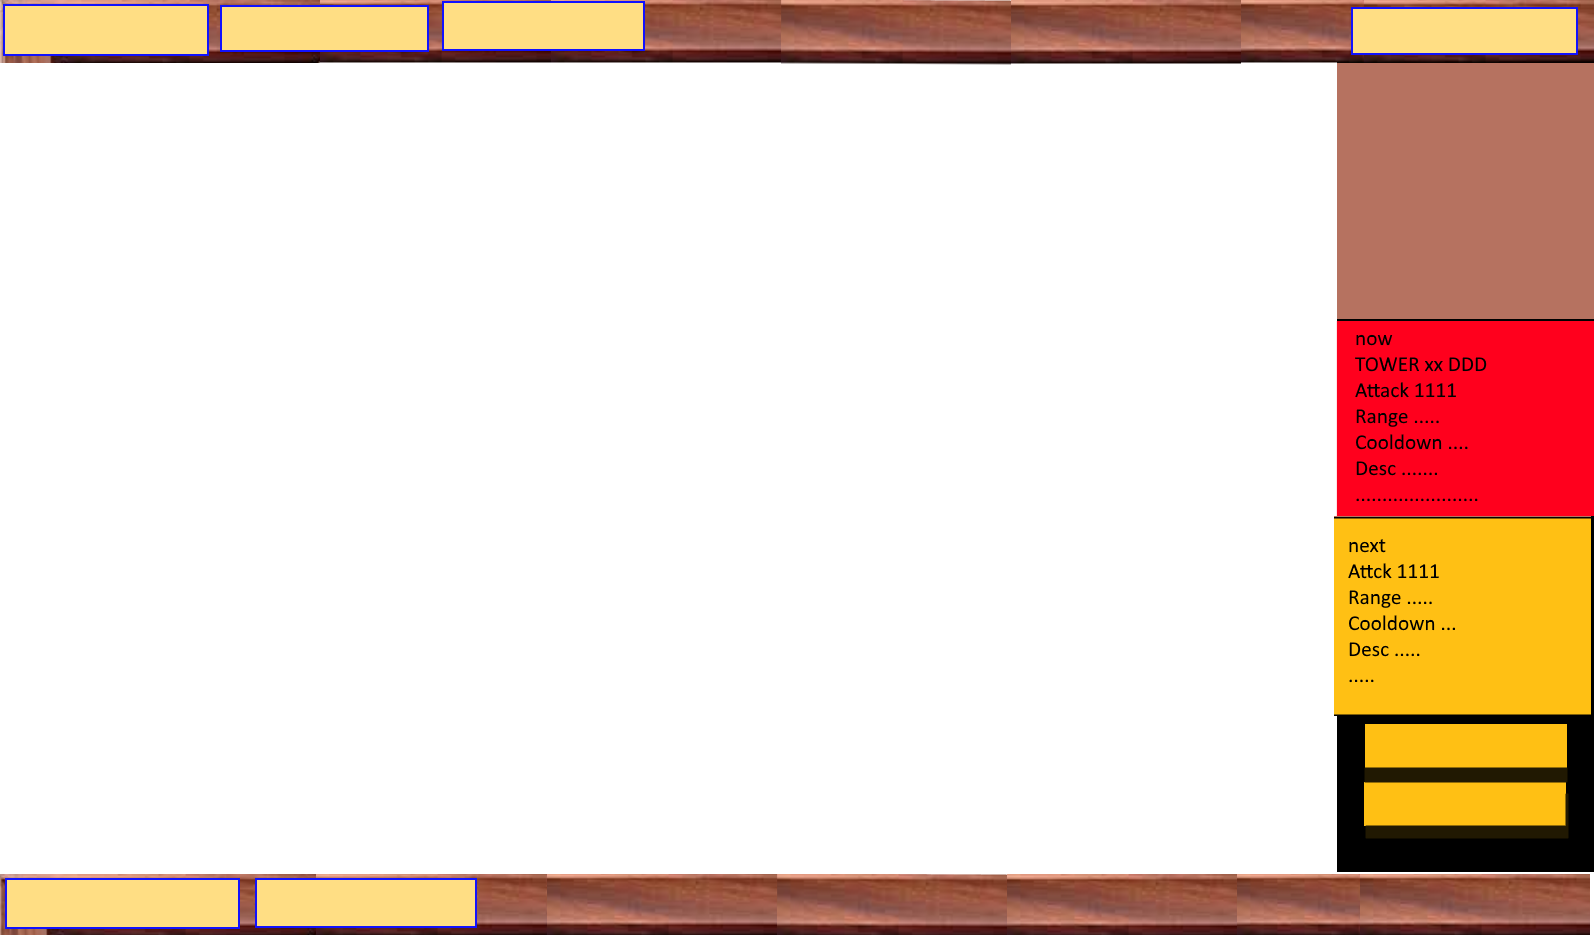
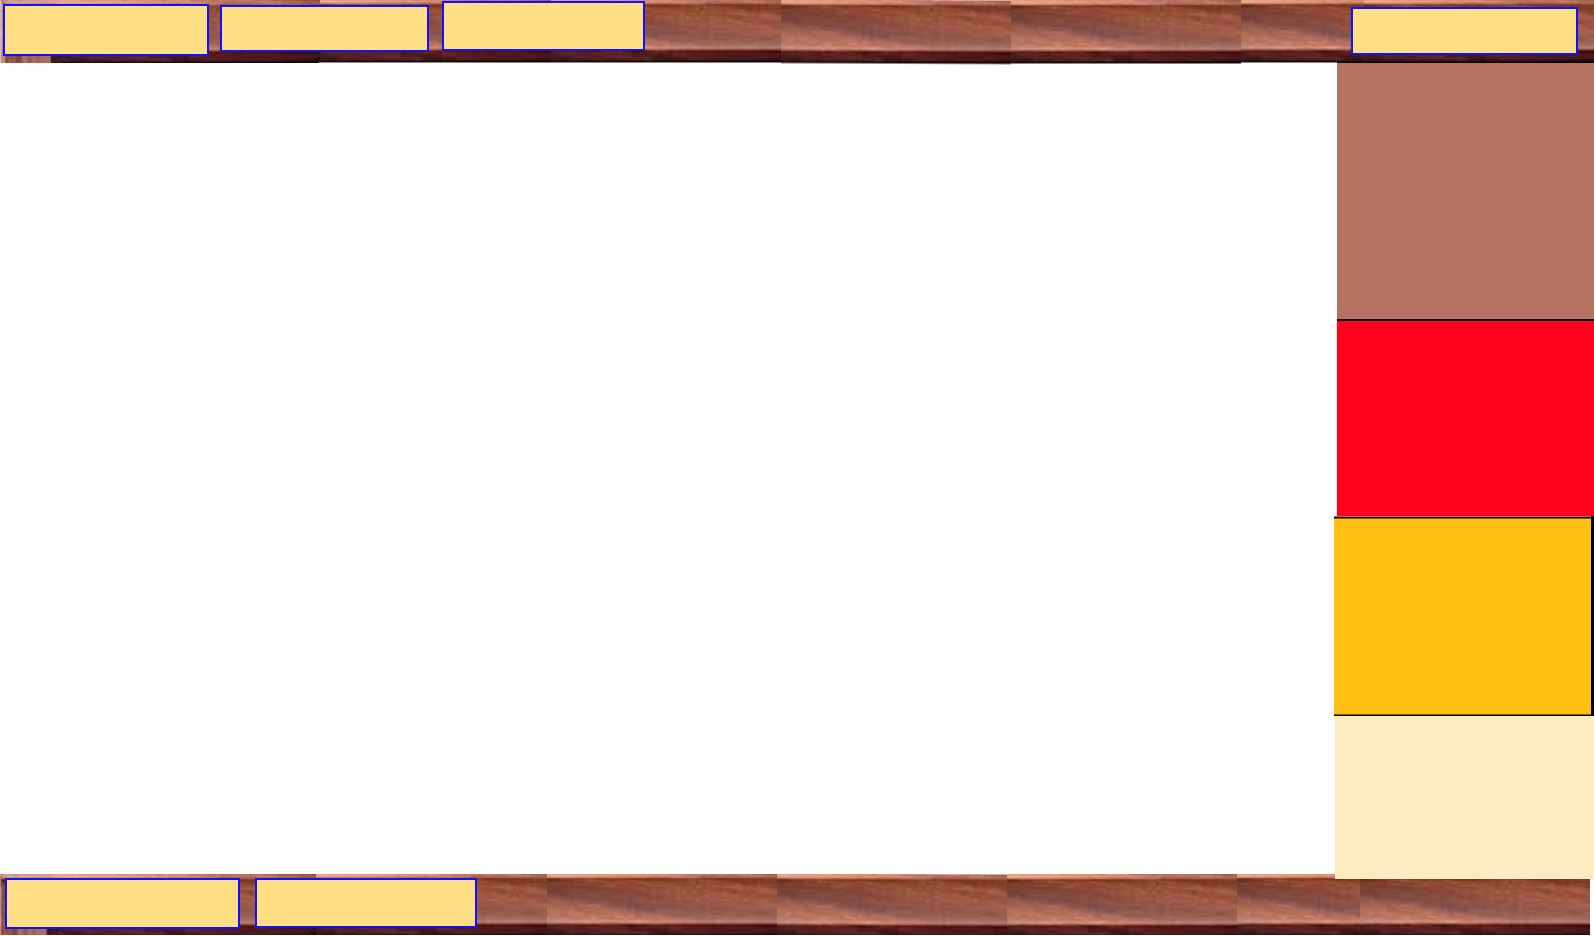
:art: layout gameScene

diff --git a/src/ui/GameUI.java b/src/ui/GameUI.java
@@ -7,11 +7,13 @@ import constants.Numbers;
 import constants.Other;
 import controller.SuperManager;
 import controller.game.GameManager;
+import controller.game.MonsterSpawner;
 import exceptions.FullyUpgradedException;
 import exceptions.PathBlockedException;
 import javafx.geometry.VPos;
 import javafx.scene.canvas.GraphicsContext;
 import javafx.scene.image.Image;
+import javafx.scene.layout.Pane;
 import javafx.scene.paint.Color;
 import model.Tile;
 import model.Tower;
@@ -21,33 +23,44 @@ public class GameUI {
 	
 	// TODO: use buttons to check click (custom image buttons)
 	private static double LEFT = 1344;
-	private static RichTextBox towerInfoPanel = new RichTextBox(new ArrayList<>(), LEFT, 320);
-	private static RichTextBox upgradeInfo = new RichTextBox(new ArrayList<>(), LEFT, 515);
+	private static TowerInfoPanel towerInfoPanel = new TowerInfoPanel();
+	private static TowerInfoPanel upgradeInfoPanel = new TowerInfoPanel();
+	
+	private static IconText levelPanel, moneyPanel, livePanel;
+	
+	
 	
 	private static cpp.pii lastPos = new cpp.pii(-1, -1);
 	private static cpp.pii[][] path = new cpp.pii[Numbers.COLUMNS][Numbers.ROWS];
 	private static boolean isError = false;
-	public static void render(GraphicsContext otherGC, GraphicsContext overlayGC) {
+	static {
+		levelPanel = new IconText(Images.attackIcon, "Level 9999", Other.normalButtonFont);
+		moneyPanel = new IconText(Images.coinIcon, "Money " + GameManager.getInstance().getMoney(), Other.normalButtonFont);
+		livePanel = new IconText(Images.liveIcon, "Live " + GameManager.getInstance().getLives(), Other.normalButtonFont);
+	}
+	
+	
+	public static void addinfo(Pane pane) {
+		pane.getChildren().addAll(levelPanel, moneyPanel, livePanel);
+	}
+	
+	public static void mountPanel(Pane pane) {
+		pane.getChildren().addAll(towerInfoPanel, upgradeInfoPanel);
+	}
+	
+	public static void render(GraphicsContext otherGC) {
 		
 		Tile t = GameManager.getInstance().getSelectedTile();
 		Tile t2 = GameManager.getInstance().createTower(GameManager.getInstance().getTowerChoice(), 999, 999);
-				
-		
-		
+			
+//		levelPanel.setText);
+		moneyPanel.setText("Money " + GameManager.getInstance().getMoney());
+		livePanel.setText("Live" + GameManager.getInstance().getLives());
 		if (t != null && t instanceof Tower)
-			renderTowerInfo(overlayGC, t, true);
+			updateTowerInfo(t, true);
 		else if (t2 != null)
-			renderTowerInfo(overlayGC, t2, false);
-		
-		overlayGC.setTextBaseline(VPos.BOTTOM);
-		overlayGC.setFont(Other.normalButtonFont);
-		overlayGC.drawImage(Images.attackIcon, 4, 4);
-		overlayGC.fillText("Level 1", 50, 40);
-		overlayGC.drawImage(Images.coinIcon, 224, 4);
-		overlayGC.fillText("$ " + GameManager.getInstance().getMoney(), 260, 40);
-		overlayGC.drawImage(Images.liveIcon, 444, 4);
-		overlayGC.fillText("" + GameManager.getInstance().getLives() , 480, 40);
-		
+			updateTowerInfo(t2, false);
+
 		
 		
 		GameManager gm = GameManager.getInstance();
@@ -104,37 +117,23 @@ public class GameUI {
 	}
 
 	
-	public static void renderTowerInfo(GraphicsContext gc, Tile t, boolean showUpgrade) {
+	public static void updateTowerInfo(Tile t, boolean showUpgrade) {
 
-
-		gc.drawImage(Images.towerInfoPanel, LEFT, 320);
-		ArrayList<String> texts = new ArrayList<>();
 		Tower tw = (Tower)t;
-		texts.add(""+tw.toString());
-		texts.add(""+tw.getAttack() + " DPS");
-		texts.add(""+tw.getRange() + " Tile");
-		texts.add(""+tw.getAttackCooldown() + " ms");
-		texts.add(""+tw.getDescription());
-		towerInfoPanel.setTexts(texts);
+		towerInfoPanel.setTexts(tw.toString(), tw.getAttack() + "DPS", tw.getAttackCooldown() + " ms",  tw.getRange() + "tiles", tw.getDescription());
 		
-		towerInfoPanel.render(gc);
-		
- 		texts.clear();
-		texts.add(""+tw.toString());
-
-		gc.drawImage(Images.towerInfoPanel, LEFT, 515 );
-		try {
-			if (!showUpgrade) throw new FullyUpgradedException(); // TODO: hacky
-			if (!tw.canUpgrade()) throw new FullyUpgradedException();
-			texts.add(""+tw.getUpgradedAttack() + " DPS");
-			texts.add(""+tw.getUpgradedRange() + " Tile");
-			texts.add(""+tw.getUpgradedAttackCooldown() + " ms");
-			texts.add(""+tw.getUpgradedDescription() + " ms");	
-			upgradeInfo.setTexts(texts);
-			upgradeInfo.render(gc);
+		if (!showUpgrade) {
+			upgradeInfoPanel.setTexts(tw.toString(), "--", "--", "--", "Fully Upgraded");
 		}
-		catch (FullyUpgradedException e) {
-			
+		else {
+			try {
+				if (!tw.canUpgrade()) throw new FullyUpgradedException();
+				upgradeInfoPanel.setTexts(tw.toString(), tw.getUpgradedAttack() + "DPS", tw.getUpgradedAttackCooldown() + " ms"
+						,  tw.getUpgradedRange() + "tiles", tw.getUpgradedDescription());
+			}
+			catch (FullyUpgradedException e) {
+				upgradeInfoPanel.setTexts(tw.toString(), "--", "--", "--", "Fully Upgraded");
+			}			
 		}
 	}
 	

diff --git a/src/ui/TowerInfoPanel.java b/src/ui/TowerInfoPanel.java
@@ -1,0 +1,48 @@
+package ui;
+
+import constants.Images;
+import javafx.scene.layout.Background;
+import javafx.scene.layout.BackgroundImage;
+import javafx.scene.layout.BackgroundPosition;
+import javafx.scene.layout.BackgroundSize;
+import javafx.scene.layout.VBox;
+import javafx.scene.text.Font;
+import javafx.scene.text.Text;
+
+
+public class TowerInfoPanel extends VBox {
+	private static final double PADDING = 8.0;
+	private static final double SPACING = 10.0;
+	private static final Font titleFont = Font.font("KenVector Future Regular", 20);
+	private static final Font textFont = Font.font("KenVector Future Regular", 14);
+	
+	
+	
+	private Text titleText, descText;
+	private IconText attackInfo, cooldownInfo, rangeInfo;
+	
+	public TowerInfoPanel(String towerName, String attack, String cooldown, String range, String desc) {
+		super(8);
+		titleText = new Text(towerName);
+		titleText.setFont(titleFont);
+		attackInfo = new IconText(Images.attackIcon, attack, textFont);
+		cooldownInfo = new IconText(Images.cooldownIcon, cooldown, textFont);
+		rangeInfo = new IconText(Images.targetIcon, range, textFont);
+		descText = new Text(desc);
+		descText.setFont(textFont);
+		setBackground(new Background(new BackgroundImage(Images.towerInfoPanel, null, null, BackgroundPosition.CENTER, BackgroundSize.DEFAULT)));
+		getChildren().addAll(titleText, attackInfo, cooldownInfo, rangeInfo, descText);
+	}
+	
+	public TowerInfoPanel() {
+		this("", "", "", "", "");
+	}
+	
+	public void setTexts(String towerName, String attack, String cooldown, String range, String desc) {
+		titleText.setText(towerName);
+		attackInfo.setText(attack);
+		cooldownInfo.setText(cooldown);
+		rangeInfo.setText(range);
+		descText.setText(desc);
+	}
+}

diff --git a/src/ui/GameScene.java b/src/ui/GameScene.java
@@ -8,8 +8,10 @@ import javafx.animation.Interpolator;
 import javafx.animation.KeyFrame;
 import javafx.animation.KeyValue;
 import javafx.animation.Timeline;
+import javafx.geometry.Pos;
 import javafx.scene.Scene;
 import javafx.scene.canvas.Canvas;
+import javafx.scene.layout.ColumnConstraints;
 import javafx.scene.layout.GridPane;
 import javafx.scene.layout.HBox;
 import javafx.scene.layout.Pane;
@@ -47,7 +49,6 @@ public class GameScene extends Scene {
 		Canvas tiles = new Canvas(Numbers.COLUMNS*Numbers.TILE_SIZE, Numbers.ROWS*Numbers.TILE_SIZE);
 		Canvas overlay = new Canvas(Numbers.WIN_WIDTH, Numbers.WIN_HEIGHT);
 		gameArea.getChildren().addAll(tiles, other);
-		root.getChildren().add(overlay);
 		
 		TilePane towerChoices = new TilePane();
 		towerChoices.setPrefRows(3);
@@ -56,11 +57,17 @@ public class GameScene extends Scene {
 		
 		buttonManager = new GameButton();
 		buttonManager.addControlButton(bottomBar);
-		buttonManager.addMenuButtons(root);
 		buttonManager.addTowerButtons(towerChoices);
-		buttonManager.addUpgradeButton(menus); // 
+		GameUI.mountPanel(menus);
+		buttonManager.addUpgradeButton(menus); //
+		buttonManager.addMenuButtons(root);
+		GameUI.addinfo(topbar);
+		topbar.setAlignment(Pos.CENTER_LEFT);
+		
+		
 		
 		root.getChildren().add(main);
+		root.getChildren().add(overlay);
 		
 		overlay.setMouseTransparent(true);
 		tiles.setMouseTransparent(true);

diff --git a/src/ui/IconText.java b/src/ui/IconText.java
@@ -1,0 +1,40 @@
+package ui;
+
+
+import javafx.geometry.Insets;
+import javafx.geometry.Pos;
+import javafx.scene.image.Image;
+import javafx.scene.image.ImageView;
+import javafx.scene.layout.HBox;
+import javafx.scene.text.Font;
+import javafx.scene.text.Text;
+
+public class IconText extends HBox {
+	
+	private ImageView image;
+	private Text text;
+	
+	public IconText(Image image, String text) {
+		super(8);
+		this.image = new ImageView(image);
+		this.text = new Text(text);
+		getChildren().addAll(this.image, this.text);
+		setAlignment(Pos.CENTER_LEFT);
+	}
+
+	public IconText(Image image, String text, Font font) {
+		this(image, text);
+		this.text.setFont(font);
+	}
+
+	
+	public void setImage(Image image) {
+		this.image.setImage(image);
+	}
+	
+	public void setText(String text) {
+		this.text.setText(text);
+	}
+	
+	
+}

diff --git a/src/controller/game/Renderer.java b/src/controller/game/Renderer.java
@@ -19,7 +19,7 @@ import model.Projectile;
 import model.TileStack;
 import model.Tower;
 import ui.PauseMenu;
-import ui.RichTextBox;
+import ui.TowerInfoPanel;
 import ui.SnackBar;
 import ui.GameUI;
 import util.cpp;
@@ -70,7 +70,6 @@ public class Renderer {
 		otherGC.clearRect(0, 0, Numbers.WIN_WIDTH, Numbers.WIN_HEIGHT);
 		tileGC.clearRect(0, 0, Numbers.WIN_WIDTH, Numbers.WIN_HEIGHT);
 		overlayGC.clearRect(0, 0, Numbers.WIN_WIDTH, Numbers.WIN_HEIGHT);
-		overlayGC.drawImage(Images.frame, 0, 0);
 		for (TileStack[] col: gm.placedTiles) 
 			for (TileStack ts: col) {
 				ts.render(otherGC, tileGC);
@@ -108,7 +107,7 @@ public class Renderer {
 		
 
 		otherGC.setFont(Font.font("Consolas", 20));;
-		GameUI.render(otherGC, overlayGC);
+		GameUI.render(otherGC);
 		PauseMenu.render(overlayGC);
 		SnackBar.render(overlayGC);
 	}

diff --git a/src/ui/GameButton.java b/src/ui/GameButton.java
@@ -103,7 +103,7 @@ public class GameButton {
 		toggleGroup.selectedToggleProperty().addListener((obs, old, nw) -> {
 			boolean paused = SuperManager.getInstance().getIsGamePausedProp().get();
 			boolean isPlacing = nw != null;
-
+			GameManager.getInstance().setSelectedTile(null);
 			pauseButton.setDisable(paused || isPlacing);
 			nextButton.setDisable(paused || isPlacing);
 			

diff --git a/src/controller/SuperManager.java b/src/controller/SuperManager.java
@@ -24,7 +24,7 @@ public class SuperManager {
 	private BooleanProperty shouldDisplayPathProp = new SimpleBooleanProperty();
 	
 	public SuperManager() {
-		shouldDisplayPathProp.set(false);
+		shouldDisplayPathProp.set(true);
 		isInGameProp.set(false);
 		isInGameProp.set(true);
 		nextWaveAvailableProp.set(false);

diff --git a/src/model/Tower.java b/src/model/Tower.java
@@ -238,7 +238,7 @@ public abstract class Tower extends Tile {
 	}
 	
 	public String toString() {
-		return TOWER_NAME + " " + getPosition();
+		return TOWER_NAME;
 	}
 	
 	public String description() {

diff --git a/src/controller/game/GameManager.java b/src/controller/game/GameManager.java
@@ -221,6 +221,12 @@ public class GameManager {
 		return endTilePos;
 	}
 
+	public void setSelectedTile(Tile selectedTile) {
+		this.selectedTile = selectedTile;
+	}
+
+	
+
 	
 }
 
